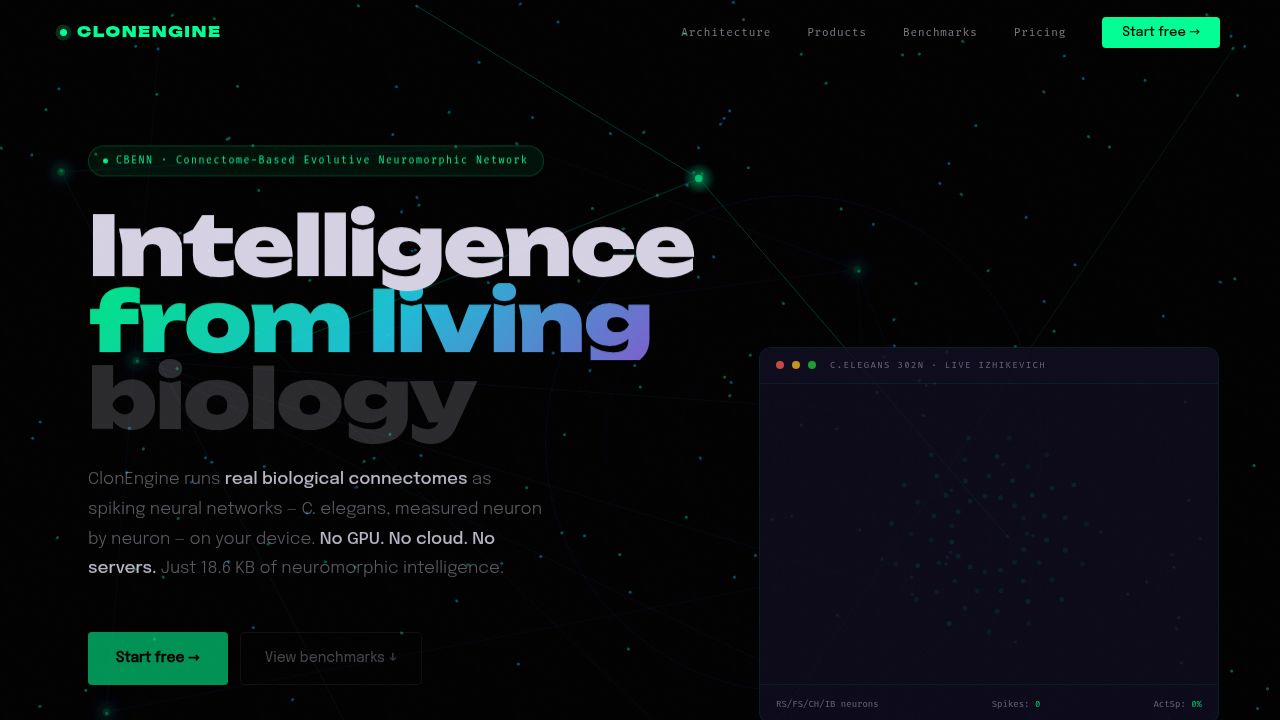
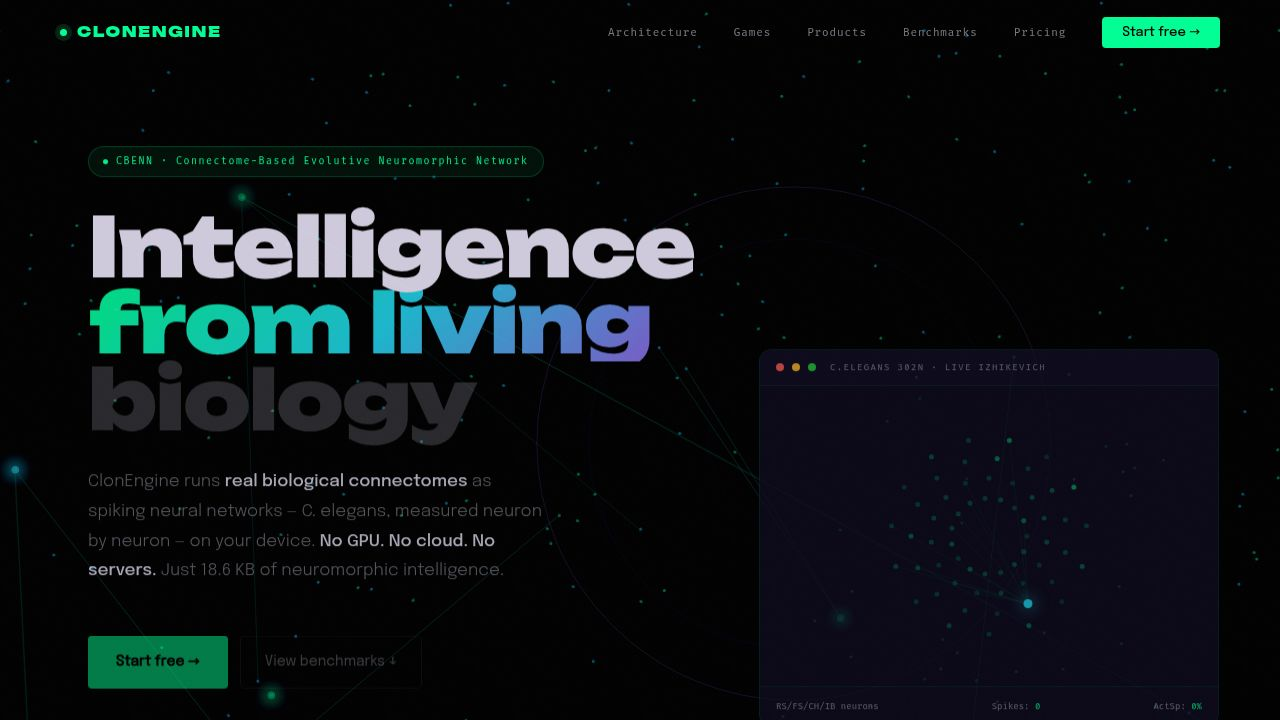
Add a section showcasing supported games and their performance improvements
Integrates a new "Games" section into the landing page, featuring a grid of 12 supported games with latency reduction metrics and routing information, and adds a corresponding navigation link.

Replit-Commit-Author: Agent
Replit-Commit-Session-Id: 59aa346d-a638-4846-a6b3-a095fc9b4d81
Replit-Commit-Checkpoint-Type: full_checkpoint
Replit-Commit-Event-Id: 4f930d07-61bf-412a-a01f-ec79809f4c56
Replit-Commit-Screenshot-Url: https://storage.googleapis.com/screenshot-production-us-central1/00fe2700-7df2-48b9-b88c-70d6c8742d53/59aa346d-a638-4846-a6b3-a095fc9b4d81/D1DvAyz
Replit-Helium-Checkpoint-Created: true

diff --git a/artifacts/clonengine/src/App.tsx b/artifacts/clonengine/src/App.tsx
@@ -238,6 +238,7 @@ export default function App() {
           <a href="#" className="nav-logo"><div className="nlive" />CLONENGINE</a>
           <ul className="nav-links">
             <li><a href="#how">Architecture</a></li>
+            <li><a href="#games">Games</a></li>
             <li><a href="#products">Products</a></li>
             <li><a href="#benchmarks">Benchmarks</a></li>
             <li><a href="#pricing">Pricing</a></li>
@@ -377,6 +378,62 @@ export default function App() {
               <ul className="plist"><li>Snell's Law = Corpus Callosum model</li><li>Pascal Cascade = Gaussian lens = GABA</li><li>Live Schumann 3D EEG vector</li></ul>
             </Rv>
           </div>
+        </div>
+      </section>
+
+      {/* GAMES */}
+      <section id="games">
+        <div className="wrap">
+          <Rv cls="sh">
+            <div className="sb">Compatible Games</div>
+            <h2 className="stitle display">Zero lag.<br /><em>Every game.</em></h2>
+            <p className="ssub">KlonOS intercepts every game packet at the TUN layer before it reaches your ISP and routes it through the fastest Pascal Ring path. The SNN engine learns each game's traffic signature in real time — no config needed.</p>
+          </Rv>
+
+          <div className="games-strip">
+            <div className="gs-badge"><span className="gsbdot" />LIVE · SNN PACKET ROUTING ACTIVE</div>
+            <div className="gs-stats">
+              <div className="gss"><span>Avg Latency Saved</span><b>-44ms</b></div>
+              <div className="gss"><span>Packets Classified</span><b>Ring 2 · UDP</b></div>
+              <div className="gss"><span>Schumann Lock</span><b>7.83Hz ✓</b></div>
+            </div>
+          </div>
+
+          <div className="games-grid">
+            {[
+              { abbr: "FN",  name: "Fortnite",          genre: "Battle Royale",  plat: "PC · Mobile",  lat: "-47ms", ring: "Ring 2 · UDP",   col: "#00c8ff" },
+              { abbr: "VL",  name: "Valorant",           genre: "FPS Tactical",   plat: "PC",           lat: "-38ms", ring: "Ring 2 · UDP",   col: "#ff4655" },
+              { abbr: "FF",  name: "Free Fire",          genre: "Battle Royale",  plat: "Mobile",       lat: "-61ms", ring: "Ring 2 · UDP",   col: "#ff6b35" },
+              { abbr: "ML",  name: "Mobile Legends",     genre: "MOBA",           plat: "Mobile",       lat: "-56ms", ring: "Ring 2 · UDP",   col: "#9b5de5" },
+              { abbr: "PM",  name: "PUBG Mobile",        genre: "Battle Royale",  plat: "Mobile",       lat: "-44ms", ring: "Ring 2 · UDP",   col: "#f5c842" },
+              { abbr: "AL",  name: "Apex Legends",       genre: "FPS · BR",       plat: "PC · Mobile",  lat: "-41ms", ring: "Ring 2 · UDP",   col: "#cd4232" },
+              { abbr: "CS",  name: "CS2",                genre: "FPS Tactical",   plat: "PC",           lat: "-33ms", ring: "Ring 2 · UDP",   col: "#8ecaff" },
+              { abbr: "LoL", name: "League of Legends",  genre: "MOBA",           plat: "PC",           lat: "-29ms", ring: "Ring 2 · UDP",   col: "#c89b3c" },
+              { abbr: "CoD", name: "Call of Duty",       genre: "FPS · BR",       plat: "PC · Mobile",  lat: "-52ms", ring: "Ring 2 · UDP",   col: "#f5a623" },
+              { abbr: "GI",  name: "Genshin Impact",     genre: "Action RPG",     plat: "PC · Mobile",  lat: "-35ms", ring: "Ring 1 · HTTPS", col: "#22d3ee" },
+              { abbr: "MC",  name: "Minecraft",          genre: "Sandbox",        plat: "PC · Mobile",  lat: "-18ms", ring: "Ring 0 · TCP",   col: "#5b8731" },
+              { abbr: "RB",  name: "Roblox",             genre: "Platform",       plat: "PC · Mobile",  lat: "-22ms", ring: "Ring 1 · HTTPS", col: "#e2231a" },
+            ].map(({ abbr, name, genre, plat, lat, ring, col }, i) => (
+              <Rv key={name} cls={`d${(i % 4) + 1} gcard`} style={{ "--gc": col } as React.CSSProperties}>
+                <div className="gcard-top">
+                  <div className="gico" style={{ background: col + "22", border: `1px solid ${col}44`, color: col }}>{abbr}</div>
+                  <div className="glat" style={{ color: col }}>{lat}</div>
+                </div>
+                <div className="gname">{name}</div>
+                <div className="gmeta">{genre} · <span>{plat}</span></div>
+                <div className="gring">{ring}</div>
+                <div className="gbar"><div className="gfill" style={{ width: `${Math.abs(parseInt(lat)) / 70 * 100}%`, background: col }} /></div>
+              </Rv>
+            ))}
+          </div>
+
+          <Rv cls="d2 games-cta">
+            <p className="gcta-note">Works out of the box on Android APK · Chrome Extension · iOS PWA · No configuration required</p>
+            <div className="gcta-btns">
+              <a href="#pricing" className="btn-m">Download KlonOS free →</a>
+              <a href="#products" className="btn-g">View all products ↓</a>
+            </div>
+          </Rv>
         </div>
       </section>
 

diff --git a/artifacts/clonengine/src/landing.css b/artifacts/clonengine/src/landing.css
@@ -175,6 +175,33 @@ h1.ht{font-size:clamp(52px,6.5vw,86px);margin-bottom:24px}
 .pbtn-g{background:transparent;border:1px solid var(--border);color:var(--muted)}
 .pbtn-g:hover{border-color:var(--green);color:var(--green)}
 
+/* GAMES */
+#games{background:var(--bg2)}
+.games-strip{display:flex;align-items:center;justify-content:space-between;background:var(--card);border:1px solid var(--border);border-radius:8px;padding:16px 28px;margin-bottom:48px;flex-wrap:wrap;gap:16px}
+.gs-badge{font-family:'Fira Code',monospace;font-size:10px;letter-spacing:.18em;color:var(--green);display:flex;align-items:center;gap:10px}
+.gsbdot{width:7px;height:7px;border-radius:50%;background:var(--green);animation:glow 1.2s ease-in-out infinite;flex-shrink:0}
+.gs-stats{display:flex;gap:32px}
+.gss{display:flex;flex-direction:column;gap:2px}
+.gss span{font-family:'Fira Code',monospace;font-size:9px;color:var(--muted);letter-spacing:.12em}
+.gss b{font-family:'Unbounded',sans-serif;font-size:14px;font-weight:900;color:var(--green)}
+.games-grid{display:grid;grid-template-columns:repeat(4,1fr);gap:16px;margin-bottom:48px}
+.gcard{background:var(--card);border:1px solid var(--border);border-radius:10px;padding:24px;position:relative;overflow:hidden;transition:transform .3s,border-color .3s,box-shadow .3s;cursor:default}
+.gcard::before{content:'';position:absolute;inset:0;opacity:0;transition:opacity .3s;background:radial-gradient(ellipse at top left,var(--gc,#00ff94)08,transparent 60%)}
+.gcard:hover{transform:translateY(-5px);border-color:var(--gc,var(--border));box-shadow:0 16px 40px rgba(0,0,0,.4)}
+.gcard:hover::before{opacity:1}
+.gcard-top{display:flex;align-items:center;justify-content:space-between;margin-bottom:14px}
+.gico{width:44px;height:44px;border-radius:8px;display:flex;align-items:center;justify-content:center;font-family:'Unbounded',sans-serif;font-size:10px;font-weight:900;letter-spacing:.04em;flex-shrink:0}
+.glat{font-family:'Unbounded',sans-serif;font-size:22px;font-weight:900;line-height:1}
+.gname{font-family:'Unbounded',sans-serif;font-size:13px;font-weight:700;color:var(--text);margin-bottom:5px;white-space:nowrap;overflow:hidden;text-overflow:ellipsis}
+.gmeta{font-family:'Fira Code',monospace;font-size:9px;color:var(--muted);letter-spacing:.1em;margin-bottom:10px}
+.gmeta span{color:var(--dim)}
+.gring{font-family:'Fira Code',monospace;font-size:9px;color:var(--cyan);letter-spacing:.12em;margin-bottom:10px;opacity:.7}
+.gbar{height:2px;background:rgba(255,255,255,.05);border-radius:2px;overflow:hidden}
+.gfill{height:100%;border-radius:2px;transition:width 1.6s cubic-bezier(.4,0,.2,1)}
+.games-cta{text-align:center;padding:48px 0 0}
+.gcta-note{font-family:'Fira Code',monospace;font-size:10px;color:var(--muted);letter-spacing:.12em;margin-bottom:24px}
+.gcta-btns{display:flex;gap:12px;justify-content:center;flex-wrap:wrap}
+
 /* CTA */
 #cta{padding:100px 0;background:var(--bg2);overflow:hidden}
 .ctain{max-width:1160px;margin:0 auto;padding:0 28px;display:flex;flex-direction:column;align-items:center;text-align:center}
@@ -215,6 +242,8 @@ footer{border-top:1px solid var(--border);padding:64px 0 32px}
   .pgrid{grid-template-columns:1fr}
   .fg{grid-template-columns:1fr 1fr}
   .nav-links{display:none}
+  .games-grid{grid-template-columns:repeat(2,1fr)}
+  .gs-stats{gap:20px}
 }
 @media(max-width:600px){
   .pipe{grid-template-columns:1fr}
@@ -222,4 +251,8 @@ footer{border-top:1px solid var(--border);padding:64px 0 32px}
   .fg{grid-template-columns:1fr}
   .hnums{grid-template-columns:1fr 1fr}
   section{padding:80px 0}
+  .games-grid{grid-template-columns:repeat(2,1fr);gap:10px}
+  .games-strip{flex-direction:column;align-items:flex-start}
+  .gcard{padding:18px}
+  .glat{font-size:18px}
 }
